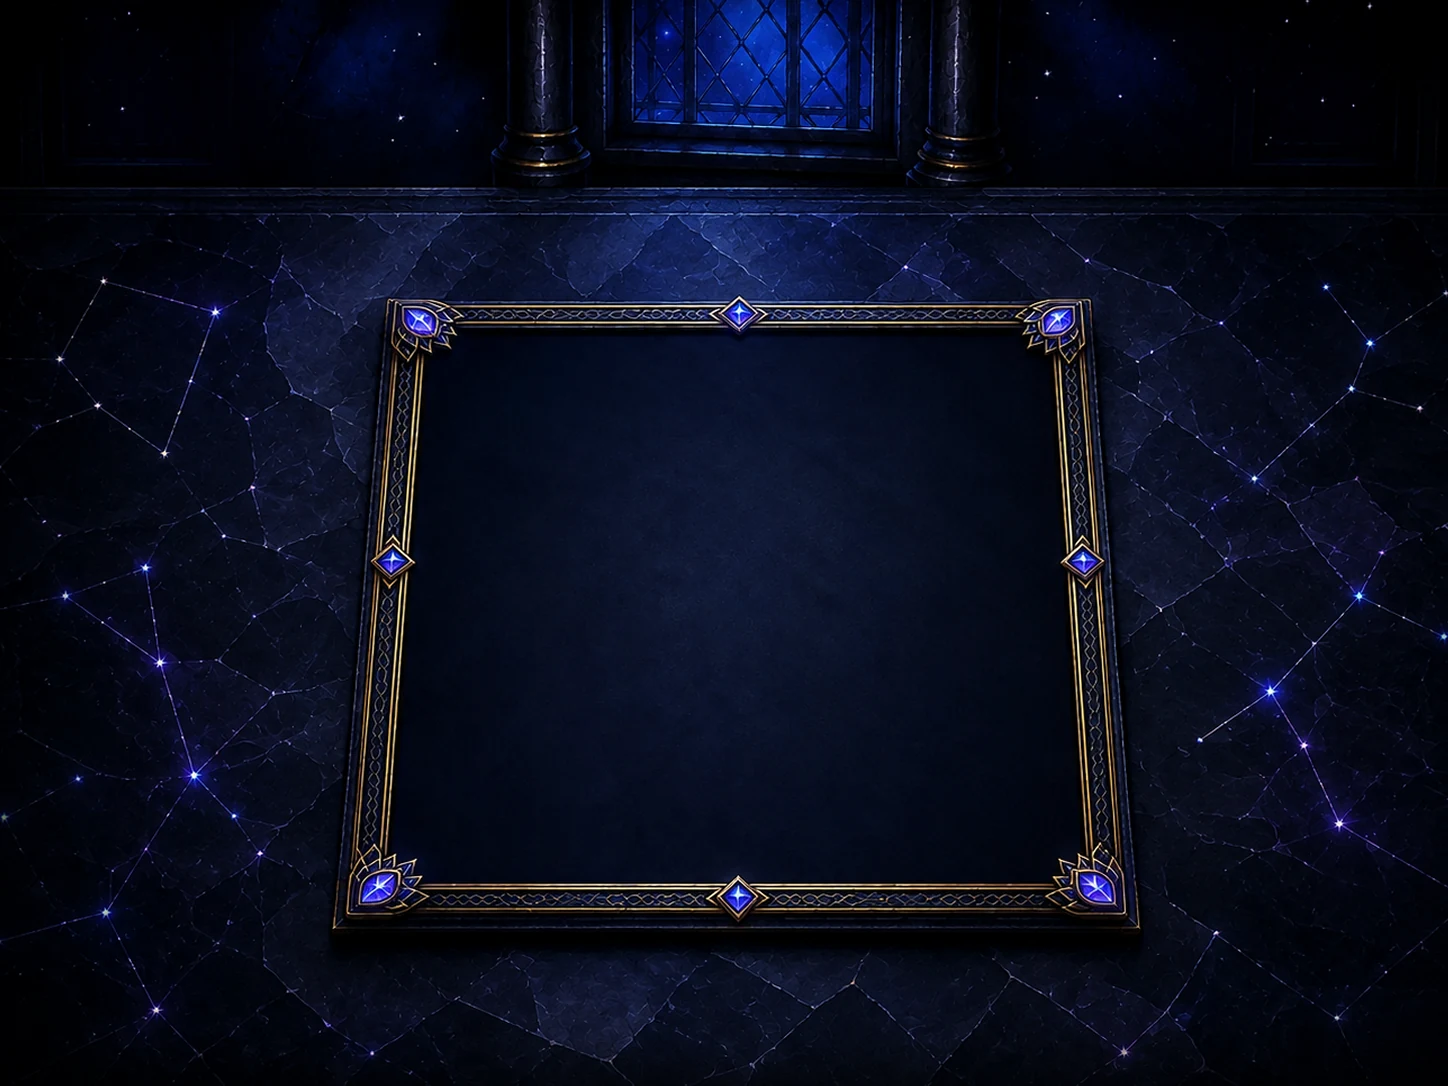
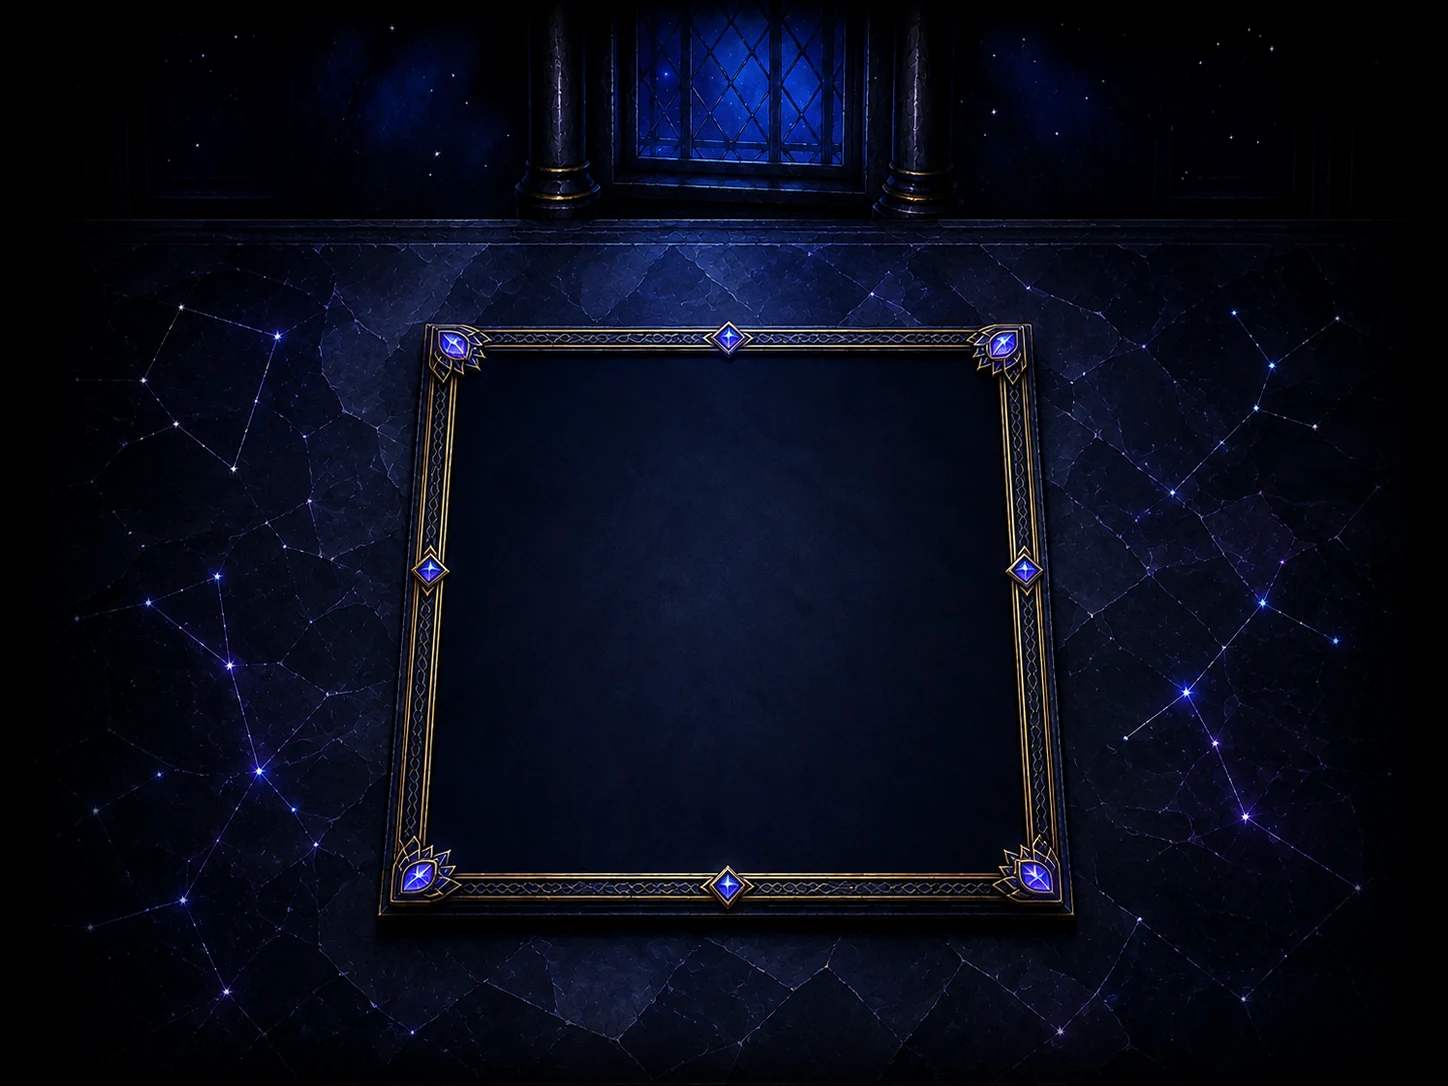
fix: the board fills the obsidian frame, and the picker fits a wide screen
The web half of the same two landscape bugs. The wide table is the
re-measured one — the set's frame now stands where the classic frame
stands, so the board reaches its rails instead of floating inside with
felt showing all round.

And the appearance screen had only a portrait layout, which a wide
viewport cropped down the middle. It now lays the sets out in a row,
board beside the name, in the set's own wide room; the card and its
preview take a width rather than assuming the portrait canvas's.

diff --git a/src/screens/AppearanceScreen.tsx b/src/screens/AppearanceScreen.tsx
@@ -9,6 +9,7 @@
  * gets, and a set added later cannot quietly disagree with its own preview.
  */
 import { DesignCanvas } from '../components/shared/DesignCanvas';
+import { useViewportSize } from '../components/game/useViewportSize';
 import { RoundControl } from '../components/shared/RoundControl';
 import { BoardPerspective, BOARD_LEFT, BOARD_TOP } from '../components/board/boardPerspective';
 import { CosmeticSkinContext } from '../game/cosmeticSkinContext';
@@ -27,6 +28,74 @@ export function AppearanceScreen({
   onBack: () => void;
 }) {
   const skin = useCosmeticSkin();
+  const viewport = useViewportSize();
+
+  // Landscape lays the sets out side by side instead of scaling the
+  // portrait column down to a strip: a set is a picture, and a wide screen
+  // is exactly where there is room to show two of them properly.
+  if (viewport.width > viewport.height) {
+    const gap = 20;
+    const padding = { left: 76, right: 28, top: 14, bottom: 16 };
+    const available =
+      viewport.width - padding.left - padding.right - gap * (cosmeticSkins.length - 1);
+    const cardWidth = Math.min(
+      460,
+      Math.max(260, available / cosmeticSkins.length),
+    );
+    return (
+      <div style={{ position: 'fixed', inset: 0, overflow: 'hidden', background: '#05091a' }}>
+        <img
+          src={skin.wideMenuBackground}
+          alt=""
+          style={{ position: 'absolute', inset: 0, width: '100%', height: '100%', objectFit: 'cover' }}
+          draggable={false}
+        />
+        <div
+          style={{
+            position: 'absolute',
+            inset: 0,
+            padding: `${padding.top}px ${padding.right}px ${padding.bottom}px ${padding.left}px`,
+            display: 'flex',
+            flexDirection: 'column',
+          }}
+        >
+          <div
+            style={{
+              textAlign: 'center',
+              fontFamily: 'var(--font-display)',
+              fontSize: 20,
+              letterSpacing: 2,
+              color: 'var(--gold-bright)',
+              marginBottom: 10,
+            }}
+          >
+            ВНЕШНИЙ ВИД
+          </div>
+          <div
+            className="dozor-scroll-panel"
+            style={{ display: 'flex', gap, overflowX: 'auto', alignItems: 'flex-start' }}
+          >
+            {cosmeticSkins.map((entry) => (
+              <SkinCard
+                key={entry.id}
+                skin={entry}
+                selected={entry.id === selectedSkinId}
+                onChosen={() => onSkinChosen(entry)}
+                width={cardWidth}
+                compact
+              />
+            ))}
+          </div>
+        </div>
+        <div style={{ position: 'absolute', left: 20, top: 14 }}>
+          <RoundControl onClick={onBack} label="Назад">
+            ‹
+          </RoundControl>
+        </div>
+      </div>
+    );
+  }
+
   return (
     <DesignCanvas background="#05091a">
       <div style={{ position: 'relative', width: 430, height: 932, overflow: 'hidden' }}>
@@ -88,11 +157,42 @@ function SkinCard({
   skin,
   selected,
   onChosen,
+  width = PREVIEW_CARD_WIDTH,
+  compact = false,
 }: {
   skin: CosmeticSkin;
   selected: boolean;
   onChosen: () => void;
+  /** Outer width of the card; the preview scales itself to fit inside it. */
+  width?: number;
+  /** Landscape has width to spare and no height: the board goes beside the
+   * name rather than above it. */
+  compact?: boolean;
 }) {
+  const previewWidth = compact ? Math.round((width - 32) * 0.55) : width - 32;
+  const preview = (
+    <div
+      style={{
+        borderRadius: 14,
+        overflow: 'hidden',
+        flex: 'none',
+        width: previewWidth,
+        height: (PREVIEW_HEIGHT * previewWidth) / PREVIEW_WIDTH,
+      }}
+    >
+      <SkinPreview skin={skin} width={previewWidth} />
+    </div>
+  );
+  const details = (
+    <>
+      <div style={{ fontFamily: 'var(--font-display)', fontSize: 15, letterSpacing: 0.8, color: '#f4d8a1' }}>
+        {skin.name.toUpperCase()}
+      </div>
+      <div style={{ marginTop: 6, fontSize: 12.5, fontWeight: 700, lineHeight: 1.25, color: '#c6d3ed' }}>
+        {skin.tagline}
+      </div>
+    </>
+  );
   return (
     <div
       role="button"
@@ -101,6 +201,9 @@ function SkinCard({
       onClick={selected ? undefined : onChosen}
       style={{
         padding: '16px 16px 18px',
+        width,
+        flex: 'none',
+        boxSizing: 'border-box',
         borderRadius: 22,
         background: 'linear-gradient(to bottom, rgba(29,49,103,0.96), rgba(12,23,52,0.96))',
         border: selected ? '2.5px solid #ffd77a' : '1.5px solid rgba(207,162,68,0.4)',
@@ -109,64 +212,65 @@ function SkinCard({
         transition: 'border-color 180ms, box-shadow 180ms',
       }}
     >
+      {compact ? null : preview}
       <div
         style={{
-          borderRadius: 14,
-          overflow: 'hidden',
-          width: PREVIEW_CARD_WIDTH,
-          height: PREVIEW_HEIGHT * PREVIEW_SCALE,
+          display: 'flex',
+          alignItems: 'center',
+          gap: 14,
+          marginTop: compact ? 0 : 14,
         }}
       >
-        <SkinPreview skin={skin} />
-      </div>
-      <div style={{ display: 'flex', alignItems: 'center', gap: 12, marginTop: 14 }}>
-        <div style={{ flex: 1 }}>
-          <div style={{ fontFamily: 'var(--font-display)', fontSize: 15, letterSpacing: 0.8, color: '#f4d8a1' }}>
-            {skin.name.toUpperCase()}
-          </div>
-          <div style={{ marginTop: 6, fontSize: 12.5, fontWeight: 700, lineHeight: 1.25, color: '#c6d3ed' }}>
-            {skin.tagline}
-          </div>
+        {compact ? preview : null}
+        <div style={{ flex: 1, display: 'flex', flexDirection: compact ? 'column' : 'row', alignItems: compact ? 'flex-start' : 'center', gap: 12 }}>
+          <div style={{ flex: compact ? 'none' : 1 }}>{details}</div>
+          <ChooseButton selected={selected} onChosen={onChosen} />
         </div>
-        {selected ? (
-          <div
-            style={{
-              padding: '10px 14px',
-              borderRadius: 12,
-              background: 'rgba(255,215,122,0.2)',
-              border: '1.5px solid #ffd77a',
-              fontFamily: 'var(--font-display)',
-              fontSize: 12,
-              letterSpacing: 0.8,
-              color: '#ffe2a4',
-              whiteSpace: 'nowrap',
-            }}
-          >
-            ✓ ВЫБРАНО
-          </div>
-        ) : (
-          <button
-            type="button"
-            onClick={onChosen}
-            style={{
-              minHeight: 40,
-              padding: '0 16px',
-              borderRadius: 12,
-              border: '1.5px solid rgba(207,162,68,0.86)',
-              background: 'rgba(27,46,99,0.67)',
-              color: '#ffe9c4',
-              fontFamily: 'var(--font-display)',
-              fontSize: 12,
-              letterSpacing: 0.8,
-              cursor: 'pointer',
-              whiteSpace: 'nowrap',
-            }}
-          >
-            ВЫБРАТЬ
-          </button>
-        )}
       </div>
     </div>
+  );
+}
+
+function ChooseButton({ selected, onChosen }: { selected: boolean; onChosen: () => void }) {
+  if (selected) {
+    return (
+      <div
+        style={{
+          padding: '10px 14px',
+          borderRadius: 12,
+          background: 'rgba(255,215,122,0.2)',
+          border: '1.5px solid #ffd77a',
+          fontFamily: 'var(--font-display)',
+          fontSize: 12,
+          letterSpacing: 0.8,
+          color: '#ffe2a4',
+          whiteSpace: 'nowrap',
+        }}
+      >
+        ✓ ВЫБРАНО
+      </div>
+    );
+  }
+  return (
+    <button
+      type="button"
+      onClick={onChosen}
+      style={{
+        minHeight: 40,
+        padding: '0 16px',
+        borderRadius: 12,
+        border: '1.5px solid rgba(207,162,68,0.86)',
+        background: 'rgba(27,46,99,0.67)',
+        color: '#ffe9c4',
+        fontFamily: 'var(--font-display)',
+        fontSize: 12,
+        letterSpacing: 0.8,
+        cursor: 'pointer',
+        whiteSpace: 'nowrap',
+      }}
+    >
+      ВЫБРАТЬ
+    </button>
   );
 }
 
@@ -178,7 +282,6 @@ const PREVIEW_HEIGHT = BoardPerspective.height + PREVIEW_MARGIN.top + PREVIEW_MA
 /** 430 design px, less the screen's 28px padding and the card's 16px, both
  * sides — see `AppearanceScreen` and `SkinCard`. */
 const PREVIEW_CARD_WIDTH = 430 - 28 * 2 - 16 * 2;
-const PREVIEW_SCALE = PREVIEW_CARD_WIDTH / PREVIEW_WIDTH;
 
 /** Enough of a position to read as a game: three figures, three coins, and
  * the squares between them. */
@@ -199,7 +302,16 @@ const PREVIEW_COINS: [number, number, number][] = [
  * geometry the board uses. A preview that shared none of that machinery
  * would be a promise the game has no obligation to keep.
  */
-export function SkinPreview({ skin }: { skin: CosmeticSkin }) {
+export function SkinPreview({
+  skin,
+  width = PREVIEW_CARD_WIDTH,
+}: {
+  skin: CosmeticSkin;
+  /** What the preview has to fit into; it is laid out at design size and
+   * scaled down to that. */
+  width?: number;
+}) {
+  const scale = width / PREVIEW_WIDTH;
   const cells = [];
   for (let r = 0; r < BOARD_N; r++) {
     for (let c = 0; c < BOARD_N; c++) {
@@ -225,11 +337,8 @@ export function SkinPreview({ skin }: { skin: CosmeticSkin }) {
           width: PREVIEW_WIDTH,
           height: PREVIEW_HEIGHT,
           overflow: 'hidden',
-          // Everything here lives inside the fixed 430-wide design canvas,
-          // so how much the preview has to shrink to fit a card is a
-          // constant, not something to measure at runtime.
           transformOrigin: 'top left',
-          transform: `scale(${PREVIEW_SCALE})`,
+          transform: `scale(${scale})`,
         }}
       >
         {/* The table art, shifted so the board area it frames lands where
